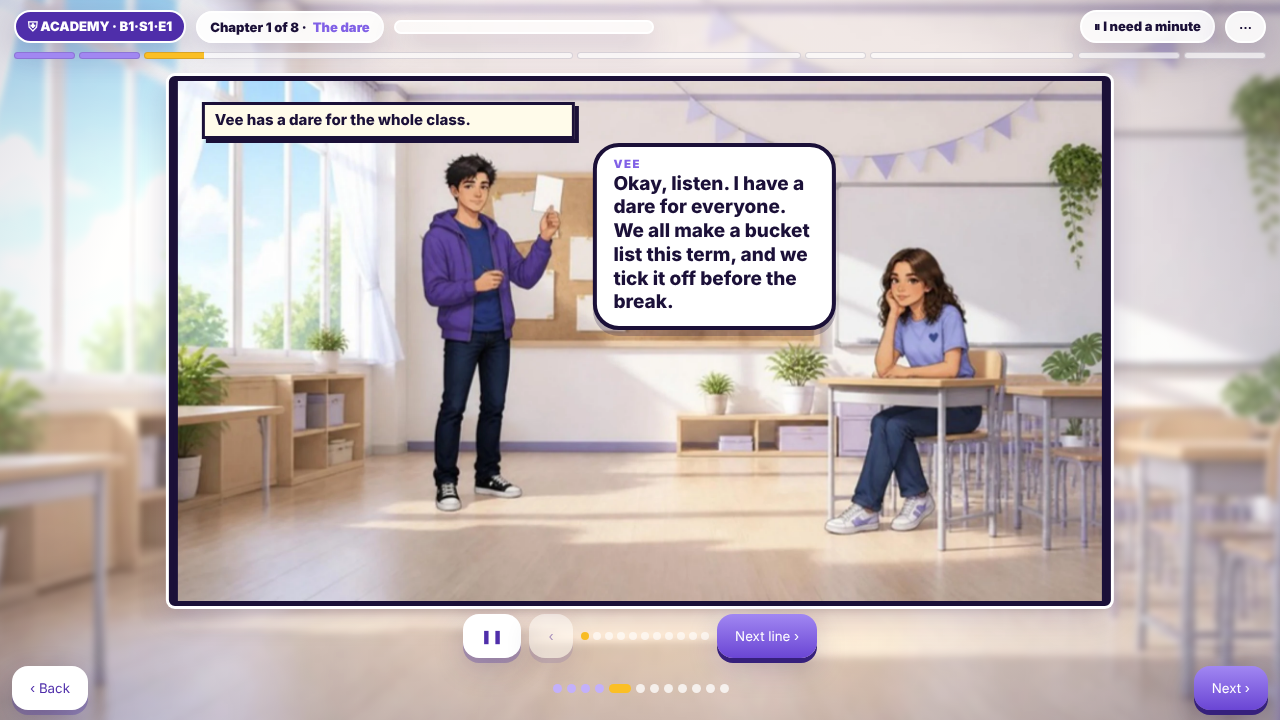
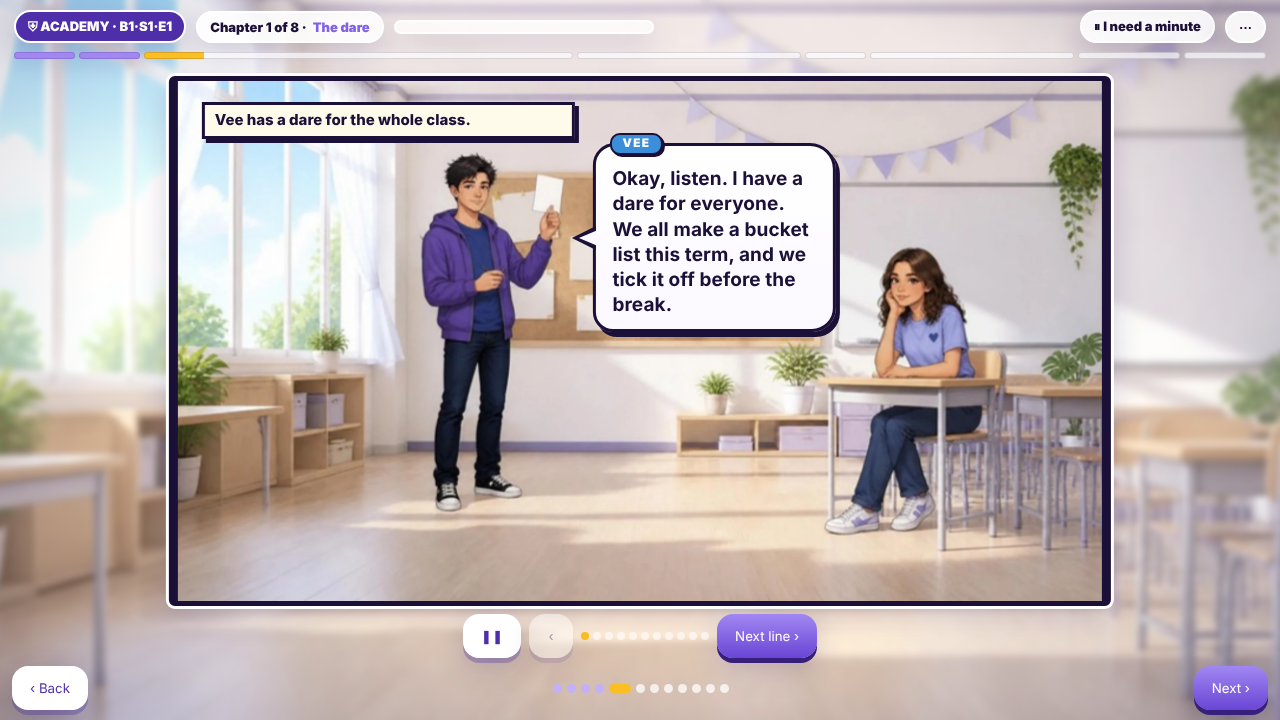
Academy player v2: redesigned comic speech bubble (speaker name tab, hard comic shadow, tail pointing at the speaker's head, pop-in, shout style)
Claude-Session: https://claude.ai/code/session_01Drtw7zYvDHszyT71Jbh84t

Changed region(s): [[0.4375, 0.1833, 0.6562, 0.4889]]

diff --git a/src/academy-player-v2/shell/tokens.css b/src/academy-player-v2/shell/tokens.css
@@ -85,12 +85,27 @@ button.av-pill { cursor: pointer; font-family: inherit; }
 @keyframes av-wipe { to { opacity: 0; } }
 .av-root[data-calm='true'] .av-comic-wipe { display: none; }
 .av-comic-cap { position: absolute; left: 3%; top: 4%; width: 40%; margin: 0; background: var(--av-cream); border: 3px solid var(--av-ink); box-shadow: 4px 4px 0 var(--av-ink); padding: 6px 10px; font-weight: 800; font-size: clamp(10px, 2.4cqw, 15px); line-height: 1.25; z-index: 3; }
-.av-comic-bub { position: absolute; margin: 0; width: 44%; background: #fff; border: 4px solid var(--av-ink); border-radius: 26px; padding: 10px 16px 12px; font-weight: 800; font-size: clamp(11px, 2.1cqw, 19px); line-height: 1.25; box-shadow: 0 6px 0 rgba(27, 16, 56, 0.25); z-index: 3; top: 40%; }
+.av-comic-bub { --who: var(--av-p500); --tail: 22%; position: absolute; margin: 0; width: 44%; top: 40%; z-index: 3; background: linear-gradient(180deg, #fff, #fbf8ff); border: 3.5px solid var(--av-ink); border-radius: 22px 26px 24px 20px; padding: 20px 16px 12px; font-weight: 700; font-size: clamp(11px, 2.1cqw, 19px); line-height: 1.32; letter-spacing: 0.005em; color: var(--av-ink); box-shadow: 4px 5px 0 var(--av-ink); animation: av-pop 0.28s cubic-bezier(0.2, 1.5, 0.4, 1) both; }
+.av-comic-bub[data-who='Vee'] { --who: #3b8fd9; } .av-comic-bub[data-who='Ava'] { --who: #8161e6; } .av-comic-bub[data-who='Theo'] { --who: #2a9d74; } .av-comic-bub[data-who='Mia'] { --who: #e4812f; }
 .av-comic-bub[data-side='left'] { left: 3%; }
 .av-comic-bub[data-side='right'] { right: 3%; }
-.av-comic-bub b { display: block; font-size: 0.6em; letter-spacing: 0.14em; text-transform: uppercase; color: var(--av-violet); }
-.av-comic-bub[data-old='true'] { opacity: 0.6; box-shadow: none; font-size: 0.82em; top: 14%; }
-.av-comic-bub[data-shout='true'] { border-radius: 8px; background: #fff7d6; }
+/* name tab sits on the top-left corner like a comic speaker label */
+.av-who { position: absolute; left: 14px; top: -13px; background: var(--who); color: #fff; border: 2.5px solid var(--av-ink); border-radius: 10px; padding: 1px 10px; font-size: 0.62em; letter-spacing: 0.12em; text-transform: uppercase; font-weight: 900; box-shadow: 2px 2px 0 var(--av-ink); }
+/* the tail: an ink triangle with a white one on top, pointing at the speaker's head */
+.av-comic-bub::before, .av-comic-bub::after { content: ''; position: absolute; width: 0; height: 0; border: solid transparent; }
+.av-comic-bub[data-tail='bottom']::before { left: var(--tail); bottom: -24px; margin-left: -12px; border-width: 24px 12px 0; border-top-color: var(--av-ink); }
+.av-comic-bub[data-tail='bottom']::after { left: var(--tail); bottom: -17px; margin-left: -8px; border-width: 19px 8px 0; border-top-color: #fbf8ff; }
+.av-comic-bub[data-tail='top']::before { left: var(--tail); top: -24px; margin-left: -12px; border-width: 0 12px 24px; border-bottom-color: var(--av-ink); }
+.av-comic-bub[data-tail='top']::after { left: var(--tail); top: -17px; margin-left: -8px; border-width: 0 8px 19px; border-bottom-color: #fff; }
+.av-comic-bub[data-tail='right']::before { top: var(--tail); right: -24px; margin-top: -12px; border-width: 12px 0 12px 24px; border-left-color: var(--av-ink); }
+.av-comic-bub[data-tail='right']::after { top: var(--tail); right: -17px; margin-top: -8px; border-width: 8px 0 8px 19px; border-left-color: #fbf8ff; }
+.av-comic-bub[data-tail='left']::before { top: var(--tail); left: -24px; margin-top: -12px; border-width: 12px 24px 12px 0; border-right-color: var(--av-ink); }
+.av-comic-bub[data-tail='left']::after { top: var(--tail); left: -17px; margin-top: -8px; border-width: 8px 19px 8px 0; border-right-color: #fbf8ff; }
+.av-comic-bub[data-old='true'] { opacity: 0.62; box-shadow: none; font-size: 0.84em; top: 14%; animation: none; }
+.av-comic-bub[data-old='true']::before, .av-comic-bub[data-old='true']::after { display: none; }
+.av-comic-bub[data-shout='true'] { background: linear-gradient(180deg, #fff8d6, #ffefa3); border-width: 4.5px; border-radius: 10px 18px 10px 18px; font-weight: 900; transform: rotate(-1.2deg); }
+@keyframes av-pop { from { transform: scale(0.86); opacity: 0; } to { transform: scale(1); opacity: 1; } }
+.av-root[data-calm='true'] .av-comic-bub { animation: none; }
 .av-comic-speed { position: absolute; inset: 0; background: repeating-conic-gradient(from 0deg at 50% 50%, rgba(27, 16, 56, 0.12) 0 2deg, transparent 2deg 9deg); z-index: 2; pointer-events: none; }
 .av-comic-sfx { position: absolute; bottom: 8%; font: 900 italic clamp(24px, 6cqw, 60px) Impact, 'Arial Black', sans-serif; color: var(--av-gold); -webkit-text-stroke: 3px var(--av-ink); paint-order: stroke fill; transform: rotate(-7deg); z-index: 3; }
 .av-comic-sfx[data-side='left'] { left: 6%; }

diff --git a/src/academy-player-v2/scenes/comic/Comic.tsx b/src/academy-player-v2/scenes/comic/Comic.tsx
@@ -12,11 +12,25 @@ export interface ComicBeat {
   /** where each speaker's bubble sits, % of the picture (x, y = top-left, w = width): empty space only */
   spots?: Partial<Record<CastName, { x: number; y: number; w: number }>>;
   capAt?: { x: number; y: number; w: number };
+  /** where each speaker's head is, % of the picture: the bubble's tail points at it (default: down, toward the speaker's side) */
+  heads?: Partial<Record<CastName, { x: number; y: number }>>;
   lines: { who: CastName; text: string; shout?: boolean; sfx?: string }[];
 }
 export interface ComicScene extends SceneBase { kind: 'comic'; title: string; beats: ComicBeat[] }
 
 type Flat = ComicBeat['lines'][number] & { bi: number; li: number };
+
+/** Which edge of the bubble the tail leaves from, and how far along that edge (%), so it points at the speaker's head. The picture is 16:9, so x counts 16 and y counts 9. */
+export function tailFor(spot: { x: number; y: number; w: number } | undefined, head: { x: number; y: number } | undefined, side: 'left' | 'right'): { edge: 'top' | 'bottom' | 'left' | 'right'; at: number } {
+  if (!spot || !head) return { edge: 'bottom', at: side === 'left' ? 22 : 78 };
+  const cx = spot.x + spot.w / 2;
+  const cy = spot.y + 10;
+  const dx = (head.x - cx) * 16;
+  const dy = (head.y - cy) * 9;
+  const clamp = (n: number) => Math.max(14, Math.min(86, n));
+  if (Math.abs(dy) >= Math.abs(dx)) return { edge: dy > 0 ? 'bottom' : 'top', at: clamp(((head.x - spot.x) / spot.w) * 100) };
+  return { edge: dx > 0 ? 'right' : 'left', at: 50 };
+}
 
 function Typed({ text, instant }: { text: string; instant: boolean }) {
   const [n, setN] = useState(instant ? text.length : 0);
@@ -59,6 +73,7 @@ function ComicView({ scene, onDone, artBase, calm }: SceneProps<ComicScene>) {
   const prev = p0 && p0.who !== line.who && (spotOf(p0) || !spotOf(line)) ? p0 : null;
   const shout = !!line.shout || /!\s*$/.test(line.text);
   const side = sideOf(line);
+  const tail = tailFor(spotOf(line), beat.heads?.[line.who], side);
   const next = () => setI((n) => Math.min(flat.length - 1, n + 1));
 
   return (
@@ -72,10 +87,10 @@ function ComicView({ scene, onDone, artBase, calm }: SceneProps<ComicScene>) {
         ))}
         <i className="av-comic-wipe" key={`w${line.bi}`} aria-hidden="true" />
         {beat.caption && <p className="av-comic-cap" key={`c${line.bi}`} style={beat.capAt ? { left: `${beat.capAt.x}%`, top: `${beat.capAt.y}%`, width: `${beat.capAt.w}%` } : undefined}><span>{beat.caption}</span></p>}
-        {prev && <p className="av-comic-bub" data-old="true" data-side={sideOf(prev)} style={at(prev)} key={`o${i}`}><b>{prev.who}</b>{prev.text}</p>}
+        {prev && <p className="av-comic-bub" data-who={prev.who} data-old="true" data-side={sideOf(prev)} style={at(prev)} key={`o${i}`}><b className="av-who">{prev.who}</b>{prev.text}</p>}
         {shout && <i className="av-comic-speed" data-side={side} key={`s${i}`} aria-hidden="true" />}
-        <p className="av-comic-bub" data-shout={shout || undefined} data-side={side} style={at(line)} key={`b${i}`} aria-label={`${line.who}: ${line.text}`} role="status">
-          <b>{line.who}</b><Typed text={line.text} instant={calm} />
+        <p className="av-comic-bub" data-who={line.who} data-shout={shout || undefined} data-side={side} data-tail={tail.edge} style={{ ...at(line), ['--tail' as string]: `${tail.at}%` }} key={`b${i}`} aria-label={`${line.who}: ${line.text}`} role="status">
+          <b className="av-who">{line.who}</b><Typed text={line.text} instant={calm} />
         </p>
         {line.sfx && <span className="av-comic-sfx" data-side={side} key={`x${i}`} aria-hidden="true">{line.sfx}</span>}
       </div>

diff --git a/src/academy-player-v2/lessons/b1s01e1.ts b/src/academy-player-v2/lessons/b1s01e1.ts
@@ -46,19 +46,19 @@ const scenes: SceneBase[] = [
     { step: 'free', prompt: 'Vee has a dare for the class. What do you think the dare is? Guess in one sentence.' },
   ] } satisfies SpeakScene,
   { id: 'story-dare', part: 2, kind: 'comic', plate: 'bucket-list-wall', trains: [1], title: 'The Dare', beats: [
-    { plate: 'story-b1s1-1', caption: 'Vee has a dare for the whole class.', spots: { Vee: { x: 45, y: 12, w: 26 } }, lines: [
+    { plate: 'story-b1s1-1', caption: 'Vee has a dare for the whole class.', spots: { Vee: { x: 45, y: 12, w: 26 } }, heads: { Vee: { x: 40, y: 21 } }, lines: [
       { who: 'Vee', text: 'Okay, listen. I have a dare for everyone. We all make a bucket list this term, and we tick it off before the break.' },
       { who: 'Vee', text: 'A bucket list is a list of things you want to do once in a lifetime.' },
       { who: 'Vee', text: 'Mine is ready. Number one: give surfing a go. I have never been in the ocean, but I have seen a hundred videos.' },
     ] },
-    { plate: 'story-b1s1-2', spots: { Ava: { x: 3, y: 66, w: 45 }, Theo: { x: 52, y: 66, w: 45 } }, lines: [
+    { plate: 'story-b1s1-2', spots: { Ava: { x: 3, y: 66, w: 45 }, Theo: { x: 52, y: 66, w: 45 } }, heads: { Ava: { x: 34, y: 22 }, Theo: { x: 63, y: 22 } }, lines: [
       { who: 'Ava', text: 'That is brave, Vee. I have been to the beach, but I have never tried surfing.' },
       { who: 'Ava', text: 'Last summer I went to Spain with my cousin. We ate pizza every day, and we took hundreds of photos.' },
       { who: 'Theo', text: 'Ava, you have flown across the world twice, and you say you are not brave?' },
       { who: 'Ava', text: 'Flying is easy, Theo. Falling off a surfboard is the scary part.' },
       { who: 'Theo', text: 'I have taken a photo in every country I have visited. That is my record.' },
     ] },
-    { plate: 'story-b1s1-3', spots: { Ava: { x: 2, y: 4, w: 28 }, Vee: { x: 2, y: 38, w: 28 } }, lines: [
+    { plate: 'story-b1s1-3', spots: { Ava: { x: 2, y: 4, w: 28 }, Vee: { x: 2, y: 38, w: 28 } }, heads: { Ava: { x: 63, y: 26 }, Vee: { x: 42, y: 15 } }, lines: [
       { who: 'Vee', text: 'So here is the dare: three things you have done, and three things you want to do. Who has gone the furthest? Who has eaten the strangest thing?' },
       { who: 'Ava', text: 'Wait. Have you ever eaten spicy noodles?' },
       { who: 'Vee', text: 'Ha! That is number two on my list.' },

diff --git a/src/academy-player-v2/__tests__/comic.test.tsx b/src/academy-player-v2/__tests__/comic.test.tsx
@@ -37,3 +37,14 @@ describe('comic scene', () => {
     expect(comicScene.validate({ ...scene, beats: [{ ...scene.beats[0], spots: { Vee: { x: 70, y: 1, w: 40 } } }, ...scene.beats.slice(1)] }).join()).toMatch(/off the picture/);
   });
 });
+
+import { tailFor } from '../scenes/comic/Comic';
+describe('speech bubble tail', () => {
+  it('points down at a speaker below, up at one above, sideways at one beside, and falls back to the speaker side', () => {
+    const spot = { x: 40, y: 10, w: 30 };
+    expect(tailFor(spot, { x: 50, y: 60 }, 'left')).toEqual({ edge: 'bottom', at: 33.333333333333336 });
+    expect(tailFor({ ...spot, y: 60 }, { x: 55, y: 10 }, 'left').edge).toBe('top');
+    expect(tailFor({ x: 2, y: 4, w: 28 }, { x: 63, y: 26 }, 'left').edge).toBe('right');
+    expect(tailFor(undefined, undefined, 'right')).toEqual({ edge: 'bottom', at: 78 });
+  });
+});
